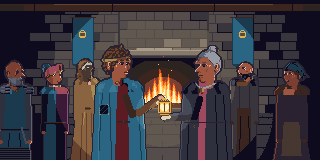
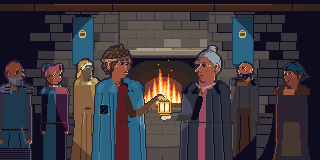
Lanternhold panels fix 1: slide 4's cloaks with lit folds, Hesper's face a step up by the hearth; lane notes for the fix round

Changed region(s): [[0.6562, 0.5938, 0.7188, 1.0], [0.2188, 0.375, 0.3125, 0.5312]]

diff --git a/games/lanternhold/tools/slides/slide_hall.py b/games/lanternhold/tools/slides/slide_hall.py
@@ -230,7 +230,7 @@ def floor(c):
 
 # --- the court -------------------------------------------------------------------------------------------------------
 
-def court_member(c, name, x0, y0, flip, body, size=32):
+def court_member(c, name, x0, y0, flip, body, size=32, lift=0):
     """A member of the court a little behind the two in front: the portrait carried down by area vote, the body drawn
     on below it in the portrait's own cloth, lit by the hearth from the side that faces it. The half ring opens toward
     us: those at its ends stand nearer and larger, those by the hearth smaller."""
@@ -242,7 +242,7 @@ def court_member(c, name, x0, y0, flip, body, size=32):
 
     def light(x, y):
         d = dist(x, y, FIRE)
-        return 0 if d < 72 else -1 if d < 110 else -2
+        return (0 if d < 72 else -1 if d < 110 else -2) + (lift if y < y0 + size else 0)
     lit_steps(lay, light, rim=(FIRE[0], FIRE[1], 2))
     lay.paste(c)
 
@@ -350,8 +350,10 @@ def heir(c, form, x0, y0):
     lay.poly([(x0 + 32, top), (x0 + 47, top - 4), (x0 + 50, H + 2), (x0 + 33, H + 2)], teal)
     # folds down the cloak
     for fx, sway in ((x0 + 6, -2), (x0 + 13, 1), (x0 + 41, 2)):
+        lay.line([(fx + 1, top + 4), (fx + sway + 1, top + 30), (fx + sway * 2 + 1, H)], teal_lt)
         lay.line([(fx, top + 2), (fx + sway, top + 30), (fx + sway * 2, H)], teal_dk)
     lay.line([(x0 + 3, top + 4), (x0 + 2, H)], teal_lt)
+    lay.line([(x0 + 17, top + 3), (x0 + 18, H)], teal_dk)
     # the tunic's belt
     for x in range(x0 + 21, x0 + 34):
         lay.put(x, top + 30, P("woodDark"))
@@ -409,7 +411,8 @@ def odile(c, x0, y0):
     # mirrored: her front faces left
     lay.poly([(x0 + 1, top - 6), (x0 + 47, top - 6), (x0 + 50, H + 2), (x0 - 2, H + 2)], dress)
     lay.poly([(x0 + 17, top), (x0 + 24, top), (x0 + 23, H + 2), (x0 + 16, H + 2)], P("dusk"))
-    for fx, sway in ((x0 + 7, -1), (x0 + 33, 1), (x0 + 41, 2)):
+    for fx, sway in ((x0 + 7, -1), (x0 + 30, 1), (x0 + 38, 2)):
+        lay.line([(fx - 1, top + 4), (fx + sway * 2 - 1, H)], P("stone"))
         lay.line([(fx, top + 2), (fx + sway * 2, H)], dress_dk)
     # the keys of the house at her girdle
     for x in range(x0 + 2, x0 + 46):
@@ -486,7 +489,7 @@ def slide4(form):
     fire(c)
     floor(c)
     # the court in a half ring, close: the hearth's light on the sides that face it
-    court_member(c, "portraitHesper", 74, 58, False, body_hesper, 27)
+    court_member(c, "portraitHesper", 74, 58, False, body_hesper, 27, lift=1)
     court_member(c, "portraitBram", 230, 58, True, body_bram, 28)
     court_member(c, "portraitPip", 40, 64, False, body_pip, 30)
     court_member(c, "portraitBrannock", -2, 58, False, body_brannock, 36)

diff --git a/games/lanternhold/docs/lanes/panels.md b/games/lanternhold/docs/lanes/panels.md
@@ -34,8 +34,9 @@ still dust, a still chevron. The world beneath stands still (the simulation does
 - `Resources/Slides/`: `slidePrologue1.png` to `slidePrologue3.png`, `slidePrologue4Lord.png`, `slidePrologue4Lady.png`,
   320 x 160 each.
 - `Resources/Panels.xcstrings`: this lane's catalog, English and German (written by `tools/slides/panels_catalog.py`).
-- `tools/slides/paint.py` and `tools/slides/slideart.py`: the painter (pure python, deterministic; one slide per run
-  through the art lock: `bash <artlock.sh> python3 -I tools/slides/slideart.py slidePrologue1 --preview <dir>`).
+- `tools/slides/`: the painter (pure python, deterministic; one slide per run through the art lock:
+  `bash <artlock.sh> python3 -I tools/slides/slideart.py slidePrologue1 --preview <dir>`); since fix round 1 one module
+  per slide and a palette check (see "Fix round 1").
 - `Tests/SlidesTests.swift`, `UITests/SlidesUITests.swift`.
 
 **The texts.** STORY.md section 8's four texts, unchanged; Story.xcstrings had none of them, so they are in
@@ -46,27 +47,9 @@ panel" shows the name), `slides.skip`, `slides.next` and `slides.begin` (VoiceOv
 value). German slide 4 turns on the form: "an {den Letzten|die Letzte} seines Blutes", "{An den, der|An die, die} die
 Lampen anzündet".
 
-**The pictures** (painted in the game's look: palette colours, flat value levels, the cold blue dark against the warm
-fire, light pools with an edge, dither only in the sky's bands; Recraft had 41 credits, one image, so nothing was
-generated):
-1. The Worldwall at dusk, seen from the valley: the sun down behind the wall, a rampart of broken snow teeth against the
-   afterglow, cloud banks across its middle; one black cleft through the whole wall, the afterglow showing at its top,
-   the castle at its foot with lit windows and the house's lantern on the keep; mist, the valley's dark forested hills,
-   the river, Tallowford's warm windows and lanterns lower right, a road of lanterns toward the cleft; firs framing left.
-2. From the castle wall into the Throat: black rock walls in slabs and broken ledges converging on a narrow slit of
-   grey-violet fog, three of the Gloom's people standing in it with one cold eye each and more eyes behind; the three
-   lines across the Throat with their braziers' small warm pools; in front the battlement, cold on the left and warm by
-   a brazier on the right; House Lantern's teal banner with the gold lantern at the frame's edge.
-3. The Throat's mouth by moonlight: the Great Beacon dark on the left (the game's `greatBeacon`, cold), the moor, the
-   road in from the right and turning away into the bright fog between two hooded statues facing home; Lord Aldric on
-   his horse in a teal cloak, his lantern raised on its pole; twelve lantern bearers following him along the road, each
-   a small warm light and pool; firs standing in the fog, near firs framing right.
-4. The great hall, warm (the game's `hallInterior`, `hearth`, `throne`, the court's sprites, all lit by the fire): the
-   hearth burning, the empty seat on the dais, Brannock, Hesper, Pip, Tamsin and Bram in a half ring; in front, half
-   length, the new lord (the court's own portrait, the one the player chose on the name page) with the circlet slipped
-   down over one eyebrow and soot on the near cheek, the lamplighter's wick pole held up beside, its little flame lit;
-   Odile facing the lord, holding out a small strip of paper folded thick (for the circlet that is too big, STORY.md
-   day 1). Two pictures: the Burgherr's and the Burgherrin's.
+**The pictures**: the first paintings of this step are gone. Fix round 1 below repainted all five (the critic's look 1
+found them not palette art, and slide 4 drew the lord origin Louis struck out on 14.11. at 14:58). What the pictures
+show now is under "Fix round 1".
 
 ### The hooks (apply again at the join)
 
@@ -112,3 +95,73 @@ were already planned in DESIGN.md).
 - The six other languages for Panels.xcstrings (one pass after the join).
 - The endings (three slides each) and story beats: the stage takes them as data; their pictures are not painted yet.
 - The rebuild rewrites the name page: the hook in `confirmLord` must follow wherever day 1 begins after the name.
+
+## Step panels-1, fix round 1: the critic's look 1 answered (14.11.2026)
+
+The critic (`ci-out/director/panels-1-prologue-critic1.md` on the planning branch) failed the step 4/10: the stage good,
+the pictures not. Two blockers, four highs; all six are fixed here. The stage, the data model, the hooks and the tests the
+critic named to keep are kept unchanged, except where a finding asked for a change (the skip's place).
+
+### What changed
+
+**Palette art (blocker 2).** Every slide is now 100 % palette colours, 29 to 42 colours each (the critic measured 754
+to about 4000 before):
+- `tools/slides/paint.py` gained the palette pass: `Canvas.finish(allowed, dither, protect, keep)` maps every pixel to
+  the nearest palette colour (OKLab, from a per-slide subset so hues never jump families), dithers only where a slide
+  asks (none does now), folds lone pixels into their cluster (never a light, an eye or a star), and `save` refuses any
+  non-palette pixel. `step(colour, k)` lights a colour by stepping it along its palette ramp (`RAMPS`): the slides' light
+  is palette steps with hard edges; the soft glow is the stage's `SlideLight`.
+- `tools/slides/slidecheck.py` (through the art lock) fails on any non-palette pixel or a wrong size in
+  `Resources/Slides`; `--swift` prints the palette for the unit test.
+- `Tests/SlidesPaletteTests.swift` (new): every slide decodes (the app's own `PNGDecoder`, pixel for pixel) to palette
+  colours only, opaque, 320 x 160, between 12 and 48 colours.
+
+**The pictures, one module each** (`slideart.py` is now only the list and the writer; the old painter's slide code,
+with the wick pole and the soot, is deleted):
+1. `slide_wall.py`, slide 1 (high 1, the director's note of 14:35): a picture-book map from high over the Gloom's side
+   at night. In front the smoke in rolling banks (darker toward us) with the game's own creatures in it as black shapes
+   with the moon on their rim and their cold eye (`ashBrute`, `gloomweaver`, `sootling`, `shadehound` from
+   Resources/Art), and smaller Gloom folk at the edge of the castle's light; across the middle the Worldwall in uneven
+   massifs (a list of masses of different height and width, ridged spurs down both flanks, snow where it can lie), all
+   lit by one moon out of the frame at the upper left; the cleft a real gap with sheer sides, the castle in it (about
+   55 px with its lantern) with its gate toward the dark, the house's banner over the gate, windows awake and the
+   lantern on the keep the brightest light; beyond the crest the inner lands as a dark plain full of warm lights to the
+   horizon, a river catching the moon and the road of lanterns out of the cleft. Rendered as a voxel height field
+   (column by column, near to far), lit in palette steps.
+2. `slide_throat.py`, slide 2 (high 3): the Throat's walls are hand-placed rock masses (polygons listed in the file,
+   far to near), each broken into flat facets turned to the light or away (a crack under and right of each facet, a lit
+   edge over and left), the inner edges cold with the fog's light near the slit. No radial lines. The slit is the
+   brightest cold thing; in it three of the Gloom's people (hand-set grids, 12 to 23 px) with one large eye each (2 x 2
+   with a dim ring), two more eyes deeper in. Kept: the three lines with their braziers (smaller pools now), the
+   battlement warm by its brazier in palette steps, House Lantern's banner.
+3. `slide_ride.py`, slide 3 (high 2): Aldric on his dark bay, side on, riding left, about 56 px from hoof to head (a
+   third of the picture), the house's teal cloak blown back, grey hair, his lantern raised on its pole; the lantern's
+   pool on the road in hard steps; the twelve bearers trail back along the road toward the Throat, each a hooded figure
+   with its lantern held high on a short pole and its own small pool, from 27 px down to 5 px; the Great Beacon (drawn
+   for this slide, a tapering tower with the iron bowl) black against the full moon, the moon's rim on its edges; mist
+   only in two thin bands in the far hollows; the moor dark with tufts placed one by one; three dead trees.
+4. `slide_hall.py`, slide 4 (blocker 1, HOUSE.md section 1, the director's note of 15:03): the great hall before the
+   hearth. In the middle the Flame in a big stone hearth (mantel, jambs, firebrick, logs, the fire in tongues). Before
+   it, half length, the heir (the court's own portrait, the circlet as it sits, untouched) in the house's teal cloak over
+   a red tunic, the cloak old and mended (an older cloth set in below the shoulder, stitched round), both hands at the
+   ring of the house's gold lantern; Odile facing the heir, both hands under the lantern's foot, giving it up; the
+   lantern between them (17 x 21, gold frame, panes of light) the brightest thing. The court close in a half ring that
+   opens toward us (portraits carried down by area vote, nearer and larger at the ends): Brannock in mail and surcoat,
+   Pip in motley, Hesper by the hearth in her robe, Bram in his scorched apron, Tamsin in a patched apron. All lit by the
+   hearth in palette steps with a hard rim on the side toward the fire. No pole, no soot, no paper; the text key is
+   unchanged (`docs/house-rewrite.json` brings the words). Two pictures, the Burgherr's and the Burgherrin's.
+- `tools/slides/figure.py` (new): a sparse layer for figures (polygons, tapered limbs, grids, the ink outline, lighting
+  in steps with a rim) and `downscale`, which carries a portrait to a smaller size by area vote, so every pixel stays a
+  portrait colour.
+
+**Skip (high 4).** "Skip" now stands in the dark at the bottom right, level with the lozenges (a preference
+`SlideProgressMid` carries the lozenges' row to an overlay in the stage's coordinate space), so it never touches the glass
+in any language; `SlidesUITests` checks that it sits below 68 % of the window's height.
+
+### Hooks
+
+Unchanged: the four hooks of step panels-1 (table above). Fix round 1 touched only this lane's own files.
+
+### Rounds
+
+- `lh-pn1f1-1` (f2ded7f): build, unit SlidesTests and SlidesPaletteTests, ui and ui-de SlidesUITests. Result below.
